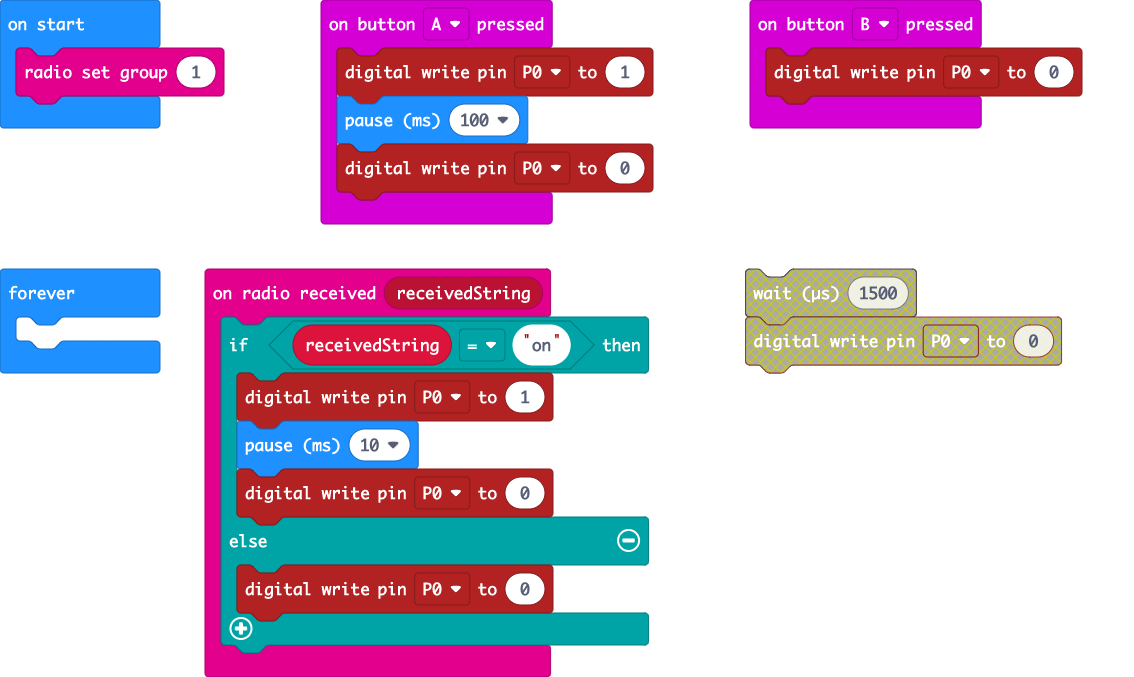
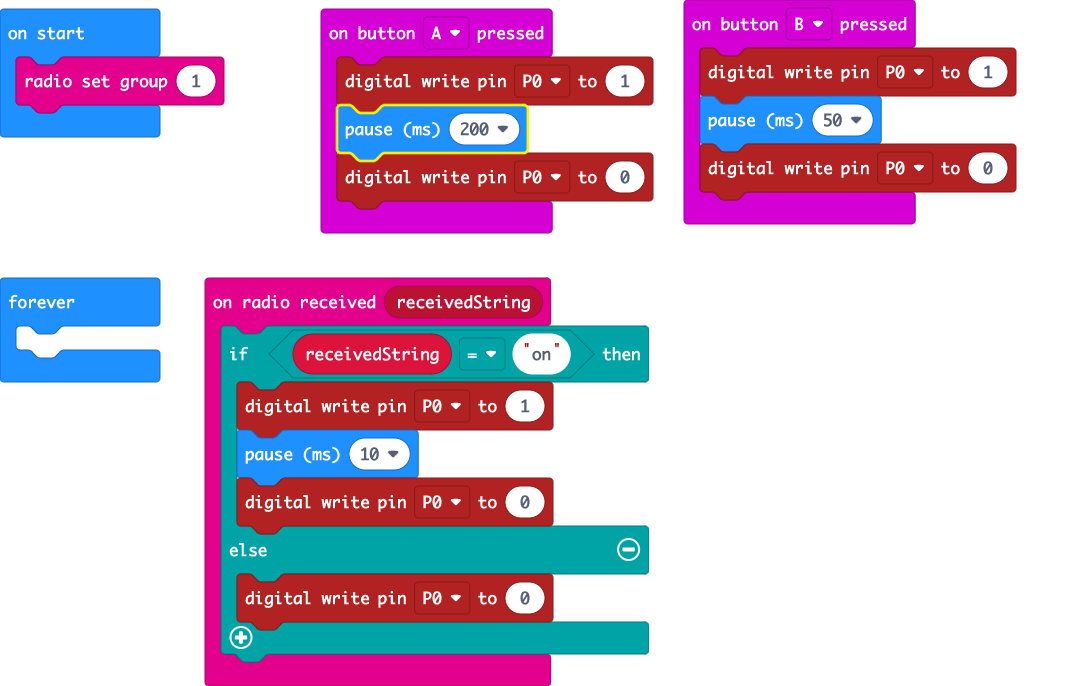
Update pxt.json, main.blocks, main.ts

diff --git a/main.ts b/main.ts
@@ -1,6 +1,6 @@
 input.onButtonPressed(Button.A, function () {
     pins.digitalWritePin(DigitalPin.P0, 1)
-    basic.pause(100)
+    basic.pause(200)
     pins.digitalWritePin(DigitalPin.P0, 0)
 })
 radio.onReceivedString(function (receivedString) {
@@ -13,6 +13,8 @@ radio.onReceivedString(function (receivedString) {
     }
 })
 input.onButtonPressed(Button.B, function () {
+    pins.digitalWritePin(DigitalPin.P0, 1)
+    basic.pause(50)
     pins.digitalWritePin(DigitalPin.P0, 0)
 })
 radio.setGroup(1)
